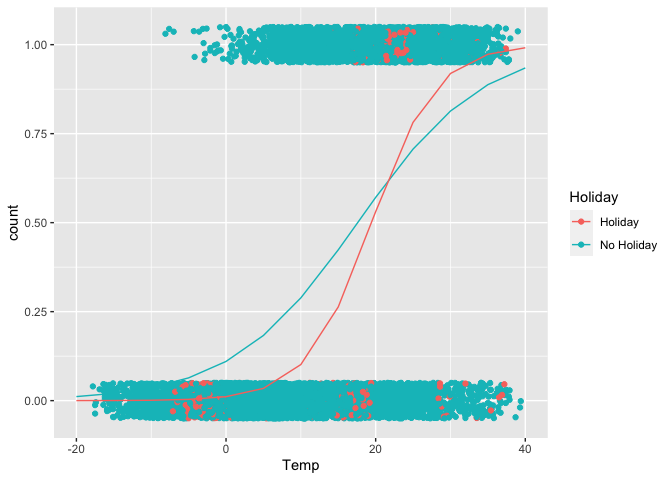
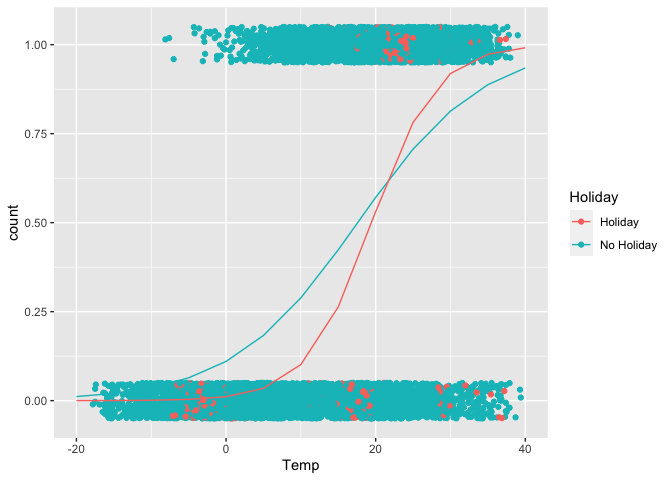
Third blog post retry.

diff --git a/_posts/2023-06-27-third.md b/_posts/2023-06-27-third.md
@@ -1,0 +1,74 @@
+Reflection on R
+================
+Jessica Ayers
+2023-06-27
+
+## Reflection Post
+
+I have worked with R in many statistics classes thus far in my academic
+career, but being exposed to the amount of different visuals that can be
+created for different processes has been the coolest thing I have
+learned about programming in R. Making an ordinary plot is mostly
+simple, but creating a plot with color, groups, different attributes,
+etc takes more time. In this past module 8, there was one visual that I
+found very interesting. It shows a regression trend for different
+prediction values.
+
+Using the Seoul Bike Data:
+
+``` r
+library(ggiraphExtra)
+library(tidyverse)
+bikeData <- read_csv("/Users/jessayers/Documents/ST 558/TOPIC 3/SeoulBikeData.csv",  locale=locale(encoding="latin1"))
+bikeData
+```
+
+    ## # A tibble: 8,760 × 14
+    ##    Date       `Rented Bike Count`  Hour `Temperature(°C)` `Humidity(%)` `Wind speed (m/s)` `Visibility (10m)`
+    ##    <chr>                    <dbl> <dbl>             <dbl>         <dbl>              <dbl>              <dbl>
+    ##  1 01/12/2017                 254     0              -5.2            37                2.2               2000
+    ##  2 01/12/2017                 204     1              -5.5            38                0.8               2000
+    ##  3 01/12/2017                 173     2              -6              39                1                 2000
+    ##  4 01/12/2017                 107     3              -6.2            40                0.9               2000
+    ##  5 01/12/2017                  78     4              -6              36                2.3               2000
+    ##  6 01/12/2017                 100     5              -6.4            37                1.5               2000
+    ##  7 01/12/2017                 181     6              -6.6            35                1.3               2000
+    ##  8 01/12/2017                 460     7              -7.4            38                0.9               2000
+    ##  9 01/12/2017                 930     8              -7.6            37                1.1               2000
+    ## 10 01/12/2017                 490     9              -6.5            27                0.5               1928
+    ## # ℹ 8,750 more rows
+    ## # ℹ 7 more variables: `Dew point temperature(°C)` <dbl>, `Solar Radiation (MJ/m2)` <dbl>, `Rainfall(mm)` <dbl>,
+    ## #   `Snowfall (cm)` <dbl>, Seasons <chr>, Holiday <chr>, `Functioning Day` <chr>
+
+Similar to homework 8, we can turn the rented bike counts variable into
+a binary 0/1 for counts of over 700.
+
+``` r
+bikeData$count <- 0
+for(i in 1:nrow(bikeData)){
+  if(bikeData$`Rented Bike Count`[i]>=700){
+    bikeData$count[i] <- 1
+  }
+  else{
+    bikeData$count[i] <- 0
+  }
+}
+
+bikeData <- bikeData %>%
+  rename("Temp" = "Temperature(°C)")
+```
+
+Now we can fit a poisson model using `count` as the response variable
+and `temperature` and `holiday` as the predictor variables.
+
+``` r
+glmFit <- glm(count ~ Temp*Holiday, data = bikeData, family = "binomial")
+```
+
+Now we can plot the predicted values of this regression.
+
+``` r
+ggPredict(glmFit)
+```
+
+![](../images/unnamed-chunk-6-1.png)<!-- -->
